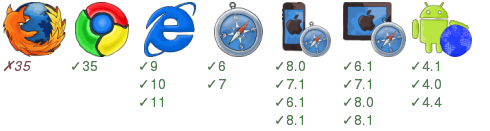
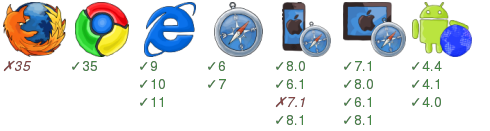
Auto commit smoke test results for e93302a58c01ac696f26fdc5bc5bdfc89d02aa8e [ci skip]

diff --git a/examples/00hello/badge.html b/examples/00hello/badge.html
@@ -29,19 +29,19 @@ div{vertical-align:top;overflow:hidden;display:inline-block;width:92px;padding:4
 </div><div>
 <img src="/home/travis/build/zordius/fluxex/examples/00hello/node_modules/badge-render/browser-badge/static/iphone.png" />
 <p>&#x2713;8.0</p>
-<p>&#x2713;7.1</p>
 <p>&#x2713;6.1</p>
+<i>&#x2717;7.1</i>
 <p>&#x2713;8.1</p>
 </div><div>
 <img src="/home/travis/build/zordius/fluxex/examples/00hello/node_modules/badge-render/browser-badge/static/ipad.png" />
-<p>&#x2713;6.1</p>
 <p>&#x2713;7.1</p>
 <p>&#x2713;8.0</p>
+<p>&#x2713;6.1</p>
 <p>&#x2713;8.1</p>
 </div><div>
 <img src="/home/travis/build/zordius/fluxex/examples/00hello/node_modules/badge-render/browser-badge/static/android-browser.png" />
+<p>&#x2713;4.4</p>
 <p>&#x2713;4.1</p>
 <p>&#x2713;4.0</p>
-<p>&#x2713;4.4</p>
 </div></body>
 </html>
